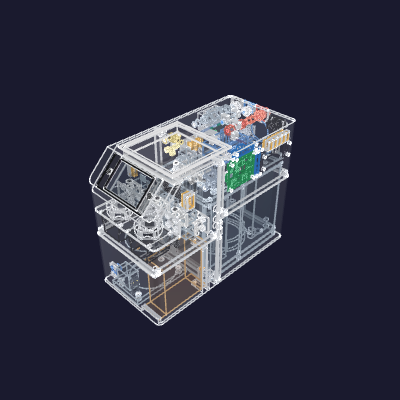
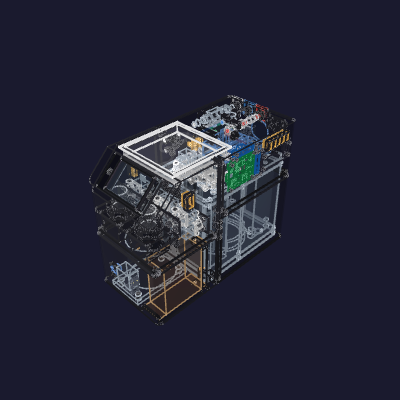
the words are set in the machine's own face, and each chip reads in the filament it prints in

Changed region(s): [[0.21, 0.24, 0.75, 0.81]]

diff --git a/hardware/manifold-layout/enclosure_assembly.py b/hardware/manifold-layout/enclosure_assembly.py
@@ -296,13 +296,25 @@ C_PLATE = cq.Color(0.20, 0.55, 0.35)
 C_MQ6 = cq.Color(0.25, 0.40, 0.70)
 C_FUSE = cq.Color(0.88, 0.72, 0.22)
 C_CLAMP = cq.Color(0.30, 0.32, 0.36)
-C_SPLIT = cq.Color(0.80, 0.72, 0.40)
-C_FLOWREG = cq.Color(0.70, 0.60, 0.30)
-C_VK = cq.Color(0.45, 0.50, 0.58)
-C_BULKHEAD = cq.Color(0.86, 0.86, 0.89)
+# THE MATERIAL IS THE COLOUR. `ledger/bom.md` is where each part is bought and what it says it is
+# made of, and every part of one material takes one constant here.
+M_JG_BLACK_PP = cq.Color(0.12, 0.12, 0.14)     # John Guest's black polypropylene PTC range
+M_NEOFIT_ACETAL = cq.Color(0.14, 0.14, 0.15)   # neoFit's black acetal bulkhead bodies
+M_STAINLESS = cq.Color(0.72, 0.73, 0.76)
+M_ALUMINIUM = cq.Color(0.80, 0.81, 0.83)
+# The PP0208E union tee on the ASSE chain's outlet.
+C_SPLIT = M_JG_BLACK_PP
+# The ABCVU44-E flow-control bulkhead throttling the flavour leg.
+C_FLOWREG = M_NEOFIT_ACETAL
+# V-K is the same Beduan solenoid as the ten on the manifold, so it is the same body.
+C_VK = ml.C_VALVE
+# The four PP1208E unions the back wall clamps — the fittings the customer meets.
+C_BULKHEAD = M_JG_BLACK_PP
 C_C14 = cq.Color(0.18, 0.18, 0.20)
-C_CO2 = cq.Color(0.85, 0.35, 0.30)
-C_WR1110 = cq.Color(0.70, 0.30, 0.26)
+# The ABU44-E the customer's CO2 tether pushes into, and the SS check one hop inboard of it.
+C_CO2_INLET = M_NEOFIT_ACETAL
+C_GASHER = M_STAINLESS
+C_WR1110 = M_ALUMINIUM
 C_DIGITEN = cq.Color(0.92, 0.92, 0.94)
 Z_AXIS = (cq.Vector(0, 0, 0), cq.Vector(0, 0, 1))
 X_AXIS = (cq.Vector(0, 0, 0), cq.Vector(1, 0, 0))
@@ -2062,7 +2074,7 @@ def build_port_rings(stations):
         word, _wcarry = seat_body(import_step(str(_ring.WORD_STEPS[which])).val(), (),
                                   seat=word_name(which), station=station)
         out.append((ring_name(which), chip,
-                    cq.Color(*(c / 255.0 for c in _rear.port_colors[fluid]))))
+                    cq.Color(*(c / 255.0 for c in _rear.chip_color(fluid)))))
         out.append((word_name(which), word,
                     cq.Color(*(c / 255.0 for c in _rear.word_color(fluid)))))
     return out
@@ -4481,9 +4493,9 @@ def build_pack() -> cq.Assembly:
     under_deck = [s for s, _c in _solids(a).values()]
     a.deck_z, deck_fall = deck_z(under_deck, a.gate_z)
     co2in, co2in_carry = build_co2_inlet(a.deck_z)
-    a.add(co2in, name="co2-inlet", color=C_CO2)
+    a.add(co2in, name="co2-inlet", color=C_CO2_INLET)
     gasher, gasher_carry = build_gasher_co2(co2in_carry)
-    a.add(gasher, name="gasher-co2", color=C_CO2)
+    a.add(gasher, name="gasher-co2", color=C_GASHER)
     wr1110, wr1110_carry = build_wr1110(gasher_carry)
     a.add(wr1110, name="wr1110", color=C_WR1110)
     a.co2_inlet_carry = co2in_carry
@@ -4692,10 +4704,13 @@ def check_through_wall_headroom(a, shell) -> Bound:
 
 # --- the box those bodies stand in, and what is seated in its walls ---------
 
-WALL_COLORS = {"front-bottom": cq.Color(0.72, 0.74, 0.78, 0.30),
-               "front-top": cq.Color(0.80, 0.82, 0.86, 0.30),
-               "back-bottom": cq.Color(0.66, 0.68, 0.72, 0.30),
-               "back-top": cq.Color(0.74, 0.76, 0.80, 0.30)}
+# THE BOX PRINTS IN ONE FILAMENT, and it is the black the flavour chips are cut off too —
+# `_back_panel_dimensions.chip_filaments` carries the measured figure. Four near-black values on a
+# tight spread; the alpha is what the pack is read through.
+WALL_COLORS = {"front-bottom": cq.Color(0.15, 0.15, 0.16, 0.30),
+               "front-top": cq.Color(0.19, 0.19, 0.21, 0.30),
+               "back-bottom": cq.Color(0.13, 0.13, 0.14, 0.30),
+               "back-top": cq.Color(0.17, 0.17, 0.18, 0.30)}
 
 
 def funnel_centre(box):

diff --git a/hardware/printed-parts/enclosure/port-ring/port_ring.py b/hardware/printed-parts/enclosure/port-ring/port_ring.py
@@ -119,11 +119,15 @@ WORD_SIZE = 6.5
 # How deep the word's recess is cut into the chip's outboard face — half the chip, so the colour
 # behind the lettering is as thick as the lettering itself and neither side of the print is a skin.
 WORD_DEPTH = 1.0
-# WHAT MAKES THE WORD ONE BODY. Letters are disjoint shapes, so a word left as its letterforms is
-# `FLAVOR` in six loose pieces on the plate — six islands the slicer starts and stops the second
-# colour for, and six things to lose off a 2 mm-thick chip. A bar this thick lying across their
-# feet, one `WORD_DEPTH` down where the chip's own material stands over it and nothing of it shows,
-# makes the second colour one connected run.
+# WHAT MAKES THE WORD ONE BODY, and it earns its place twice. Letters are disjoint shapes, so a
+# word left as its letterforms is `FLAVOR` in six loose pieces — six islands the slicer starts and
+# stops the second colour for, and six things to lose off a 2 mm chip. And occt-import-js, the
+# reader `/3d` runs, surfaces a colour only for a single-solid component: a word of six comes back
+# uncoloured and the viewer draws the lettering grey. (The STEP carries a style per solid either
+# way — the file is not what decides this, the reader is. `_mesh_payload.from_assembly` matches the
+# reader on purpose, and its selftest round-trips through it.)
+#   So the letters are tied BEHIND the face: a bar this thick across their feet, one `WORD_DEPTH`
+# down, where the chip's own material stands over it and nothing of it shows.
 #   IT RUNS ALONG THE BASELINE and no higher. Every capital has stock at its foot, so a bar there
 # reaches all of them; a bar at mid-cap would cross the counters of O, A, P, R and D, and the chip
 # material inside those would come off the chip's floor and be islands of their own.
@@ -302,7 +306,8 @@ def words_hold():
     why every word's width is carried in `WORD_WIDTHS` and read back off the solid here.
 
     AND EVERY WORD IS ONE SOLID. A word whose letters came apart is a plate of loose islands to
-    place and to lose. `WORD_TIE` is what holds them together and this is what reads it."""
+    place and to lose, and it is lettering the viewer draws grey — `/3d`'s reader surfaces a colour
+    only for a single-solid component. `WORD_TIE` is what holds them together and this reads it."""
     for which, step in WORD_STEPS.items():
         word = STATIONS[which].word
         solid = import_step(str(step)).val()

diff --git a/hardware/printed-parts/enclosure/back-panel/_back_panel_dimensions.py b/hardware/printed-parts/enclosure/back-panel/_back_panel_dimensions.py
@@ -74,6 +74,18 @@ chip_word_colors = {
 }
 
 
+def chip_color(fluid):
+    """The colour one chip actually comes out — the filament it prints in, not the
+    identification colour it stands for.
+
+    `port_colors` is the SCHEME: what blue means on this wall, and the neoFlo
+    LLDPE the customer's tube is cut off. A chip printed to match one is Bambu
+    PETG Basic, a different product answering to the same name, and the two are
+    a few points apart. `enclosure_assembly.build_port_rings` draws the chip
+    from here and the drawings paint the scheme from `port_colors`."""
+    return chip_filaments[fluid][1]
+
+
 def word_color(fluid):
     """The colour a chip's WORD is lettered in — the one of black and white that reads against the
     filament that chip actually prints in. `port_ring` cuts the recess and this is what fills it."""

diff --git a/hardware/printed-parts/enclosure/port-ring/README.md b/hardware/printed-parts/enclosure/port-ring/README.md
@@ -55,10 +55,11 @@ customer's quick-start sheet are already set in, so a customer holding that shee
 machine reads one typeface and not two.
 
 Behind the lettering a bar [0.3](WORD_TIE) mm thick lies across the letters' feet, which makes the
-word ONE body: the second colour is a single connected run rather than six loose islands per word
-to place and to lose. It runs along the baseline and no higher, so it stays clear of the counters
-in O, A, P, R and D — a bar at mid-cap would cut those off the chip's own floor and leave them as
-islands too.
+word ONE body. That earns its place twice: the second colour is a single connected run rather than
+six loose islands per word to place and to lose, and the reader `/3d` runs surfaces a colour only
+for a single-solid component, so an untied word is lettering the viewer draws grey. It runs along
+the baseline and no higher, so it stays clear of the counters in O, A, P, R and D — a bar at
+mid-cap would cut those off the chip's own floor and leave them as islands too.
 
 | | |
 |---|---|
